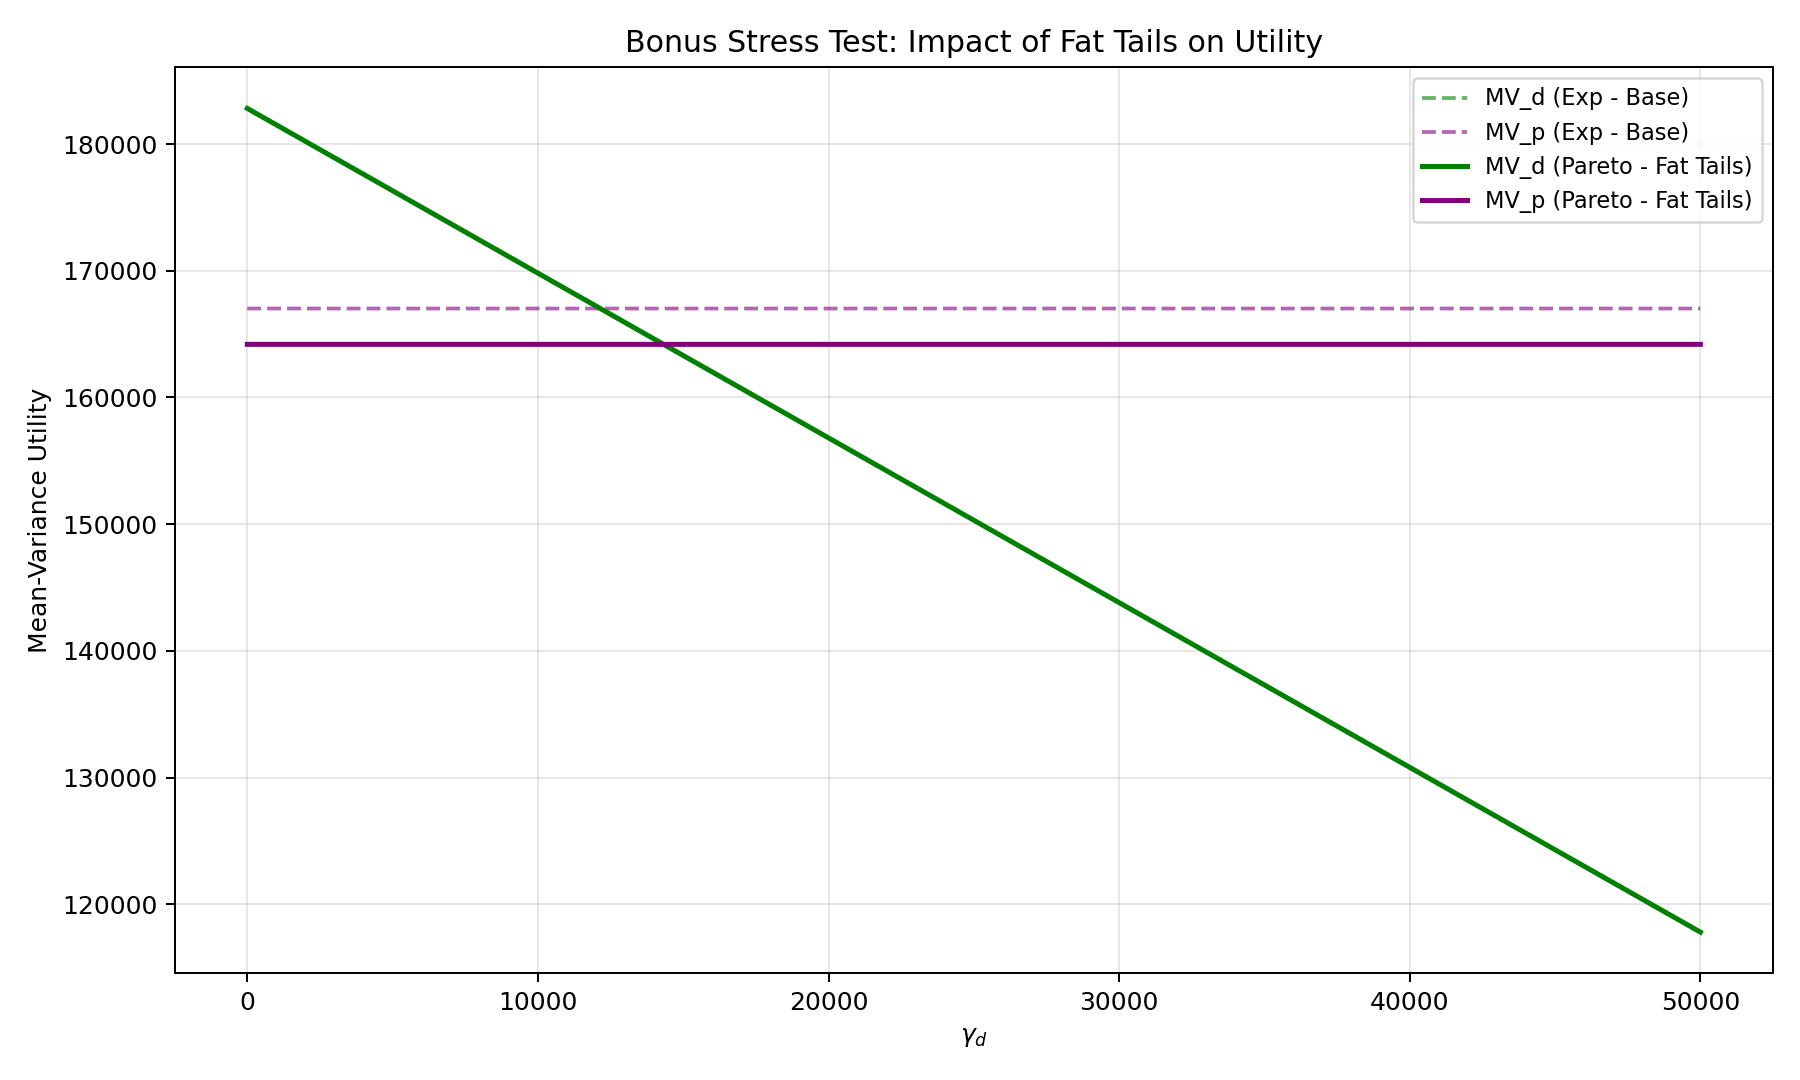
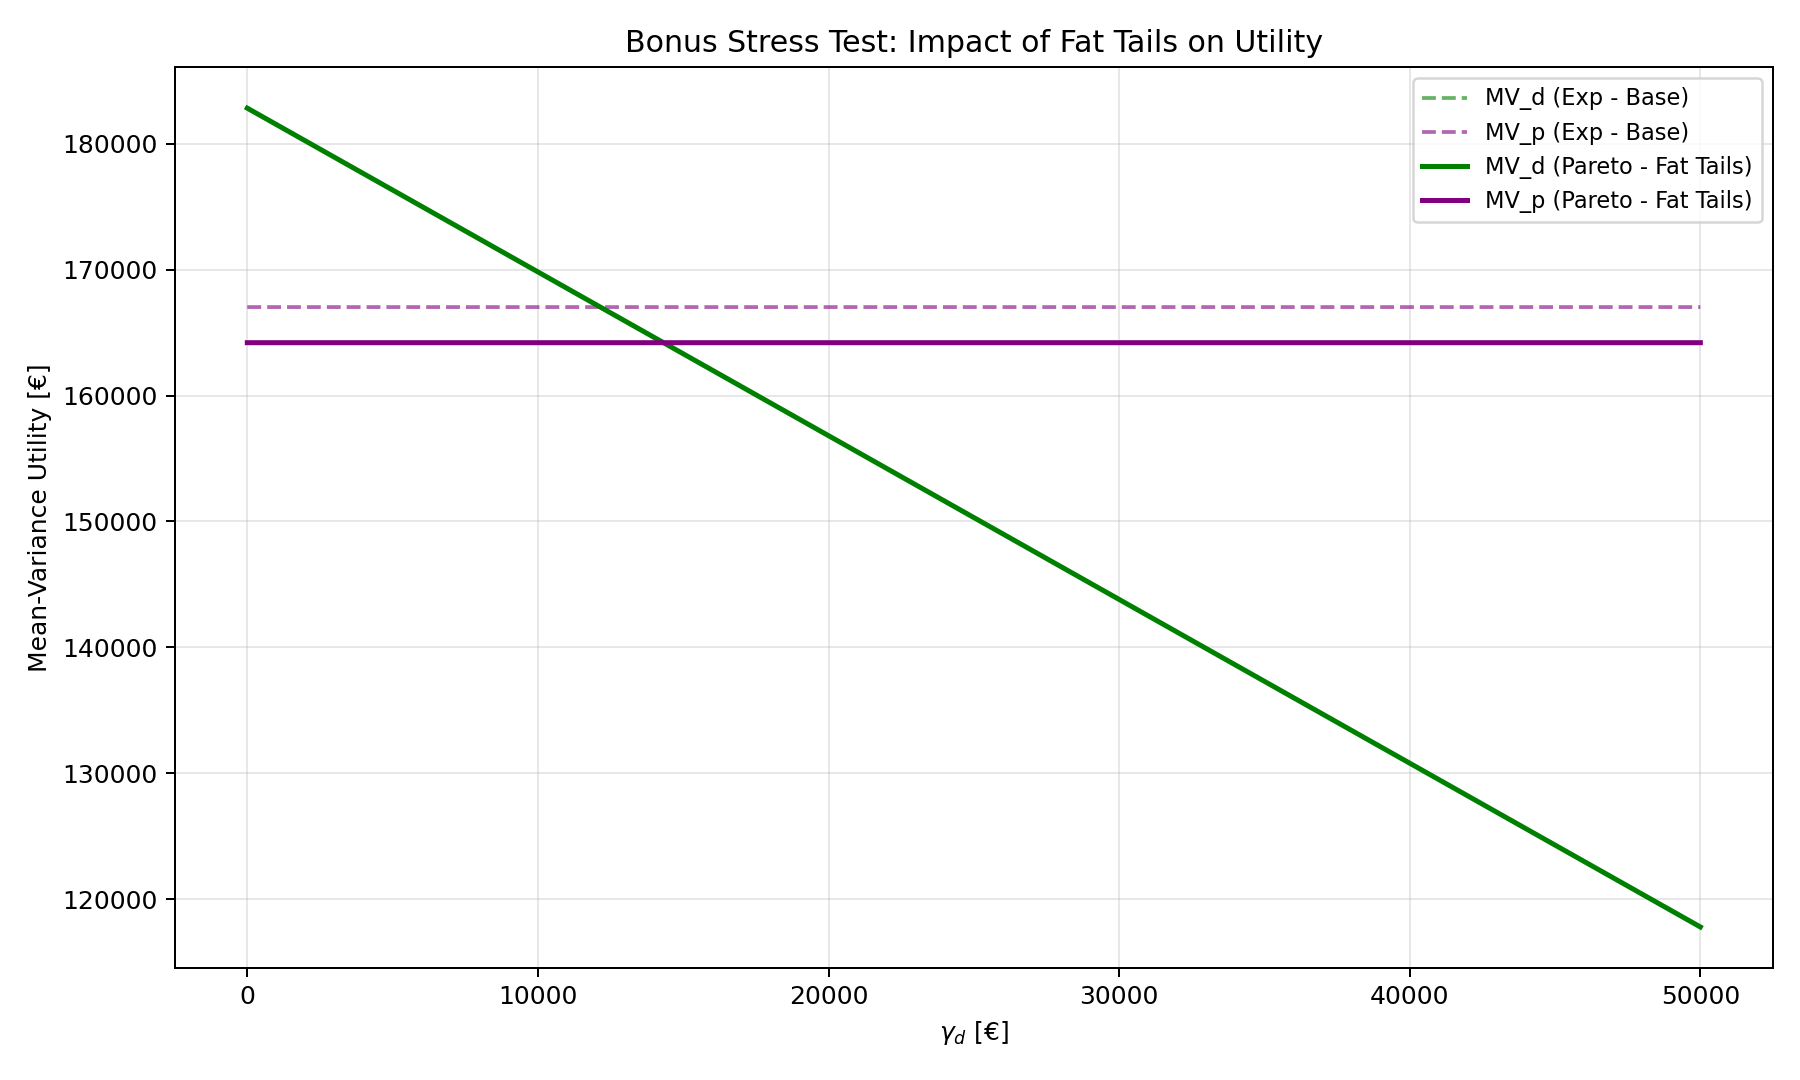
Adattata alle unità di misura nel report

diff --git a/utils/plotter.py b/utils/plotter.py
@@ -40,9 +40,9 @@ def run_simulation_and_plot(theta_d: float, theta_p: float, output_path: str):
     print(sep)
     print(f"  Indifference thresholds:")
     if not np.isnan(gamma_indif):
-        print(f"    gamma_indif  (MV_d = MV_p opt)    = {gamma_indif:>10,.2f} EUR")
+        print(f"    gamma_indif  (MV_d = MV_p opt)    = {gamma_indif:>10,.2f} €")
     if not np.isnan(gamma_indif_prime):
-        print(f"    gamma_indif' (MV_d = MV_p budget) = {gamma_indif_prime:>10,.2f} EUR")
+        print(f"    gamma_indif' (MV_d = MV_p budget) = {gamma_indif_prime:>10,.2f} €")
     print(sep)
 
     # Plotting logic
@@ -54,8 +54,8 @@ def run_simulation_and_plot(theta_d: float, theta_p: float, output_path: str):
 
     fig, ax1 = plt.subplots(figsize=(11, 6.5))
 
-    ax1.set_xlabel(r"$\gamma_d$", fontsize=13)
-    ax1.set_ylabel("Premium", fontsize=13)
+    ax1.set_xlabel(r"$\gamma_d$ [€]", fontsize=13)
+    ax1.set_ylabel("Premium [€]", fontsize=13)
     l_pd, = ax1.plot(gd_plt, p_d_arr[mask], color=C_PD, lw=2.0, label=r"$P_d$")
     l_pp, = ax1.plot(gd_plt, p_p_arr[mask], color=C_PP, lw=2.0, label=r"$P_p$")
     
@@ -63,7 +63,8 @@ def run_simulation_and_plot(theta_d: float, theta_p: float, output_path: str):
     ax1.set_ylim(0, p_d_arr[mask].max() * 1.28)
 
     ax2 = ax1.twinx()
-    ax2.set_ylabel("Mean-Variance", fontsize=13)
+   
+    ax2.set_ylabel("Mean-Variance [€]", fontsize=13)
     l_mvd, = ax2.plot(gd_plt, mv_d_arr[mask], color=C_MVD, lw=2.2, label=r"$MV_d$")
     l_mvp, = ax2.plot(gd_plt, mv_p_arr[mask], color=C_MVP, lw=2.2, label=r"$MV_p$")
     l_mvpb, = ax2.plot(gd_plt, mv_pb_arr[mask], color=C_MVPB, lw=2.2, label=r"$MV_p^{(\mathrm{budget}\ P_d)}$")
@@ -77,14 +78,14 @@ def run_simulation_and_plot(theta_d: float, theta_p: float, output_path: str):
     if not np.isnan(gamma_indif) and gamma_indif <= x_max:
         ax1.axvline(gamma_indif, color=C_MVD, linestyle='--', lw=1.6, alpha=0.85)
         ax1.text(gamma_indif, y0 + (y1 - y0) * 0.05, 
-                 rf"$\gamma_{{\mathrm{{indif}}}} = {gamma_indif:,.0f}$", 
+                 rf"$\gamma_{{\mathrm{{indif}}}} = {gamma_indif:,.0f}$ €", 
                  color=C_MVD, ha='center', va='bottom', fontsize=11,
                  bbox=dict(facecolor='white', edgecolor='none', alpha=0.75, pad=2.0))
 
     if not np.isnan(gamma_indif_prime) and gamma_indif_prime <= x_max:
         ax1.axvline(gamma_indif_prime, color=C_MVPB, linestyle='--', lw=1.6, alpha=0.85)
         ax1.text(gamma_indif_prime, y0 + (y1 - y0) * 0.05, 
-                 rf"$\gamma_{{\mathrm{{indif}}}}' = {gamma_indif_prime:,.0f}$", 
+                 rf"$\gamma_{{\mathrm{{indif}}}}' = {gamma_indif_prime:,.0f}$ €", 
                  color=C_MVPB, ha='center', va='bottom', fontsize=11,
                  bbox=dict(facecolor='white', edgecolor='none', alpha=0.75, pad=2.0))
 
@@ -115,13 +116,13 @@ def run_bonus_fat_tail_plot(theta_d: float, theta_p: float, output_path: str):
     mv_d_fat = MV_d_pareto(d_star, gamma_d, theta_d)
     mv_p_fat = np.full_like(gamma_d, MV_p_pareto(k_star, theta_p))
 
-    # --- Print Terminal---
+    # --- Print Terminal for Bonus ---
     sep = "=" * 62
     print(sep)
     print(f"  Bonus: Fat Tails (Pareto) vs Exponential")
     print(sep)
     print(f"  Dynamic Calibration:")
-    print(f"    THETA parameter      = {THETA:>10,.2f} EUR")
+    print(f"    THETA parameter      = {THETA:>10,.2f} €")
     print(sep)
     # --------------------------------------
 
@@ -134,8 +135,8 @@ def run_bonus_fat_tail_plot(theta_d: float, theta_p: float, output_path: str):
     ax.plot(gamma_d, mv_p_fat, label="MV_p (Pareto - Fat Tails)", color="purple", lw=2)
 
     ax.set_title("Bonus Stress Test: Impact of Fat Tails on Utility")
-    ax.set_xlabel(r"$\gamma_d$")
-    ax.set_ylabel("Mean-Variance Utility")
+    ax.set_xlabel(r"$\gamma_d$ [€]")
+    ax.set_ylabel("Mean-Variance Utility [€]")
     ax.legend(loc="best", fontsize=9)
     ax.grid(True, alpha=0.3)
     plt.tight_layout()